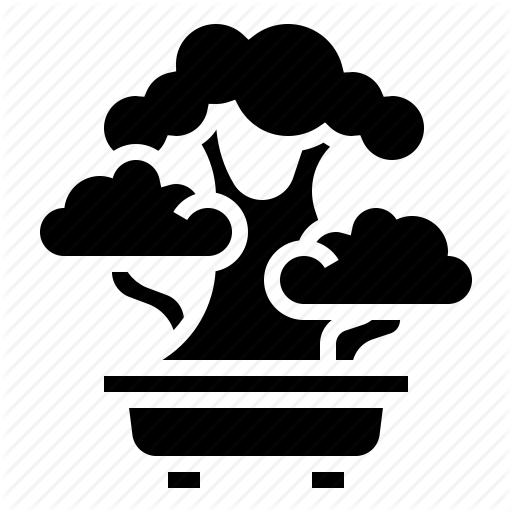
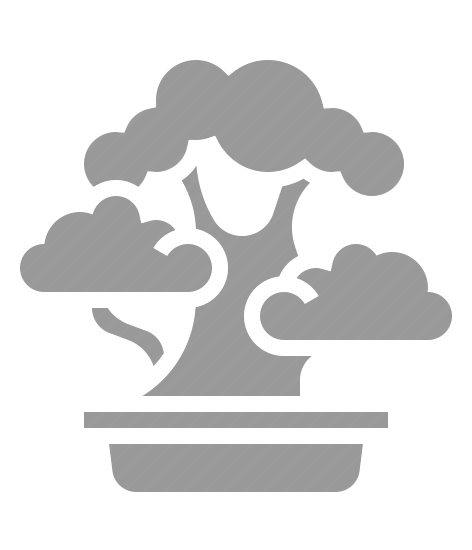
t5

diff --git a/index.html b/index.html
@@ -6,7 +6,7 @@
 -->
 <html>
 	<head>
-		<title>TXT by HTML5 UP</title>
+		<title>Amazonia Bonsai</title>
 		<meta charset="utf-8" />
 		<meta name="viewport" content="width=device-width, initial-scale=1, user-scalable=no" />
 		<link rel="stylesheet" href="assets/css/main.css" />
@@ -16,10 +16,12 @@
 
 			<!-- Header -->
 				<header id="header">
+					<div>
+					<a href="index.html" id="logo"><img src="images/icon-bonsai.png" alt="logo" width=45 height=45></a>
+					</div>
 					<div class="logo container">
 						<div>
-							<h1><a href="index.html" id="logo"></a></h1>
-							<p>A responsive site template by HTML5 UP</p>
+							<p>Plantando idéias para um mundo melhor</p>
 						</div>
 					</div>
 				</header>
@@ -27,36 +29,27 @@
 			<!-- Nav -->
 				<nav id="nav">
 					<ul>
-						<li class="current"><a href="index.html">Home</a></li>
+						<li class="current"><a href="index.html">INICIO</a></li>
 						<li>
-							<a href="#">Dropdown</a>
+							<a href="#sementes">SEMENTES</a>
 							<ul>
-								<li><a href="#">Lorem ipsum dolor</a></li>
-								<li><a href="#">Magna phasellus</a></li>
-								<li>
-									<a href="#">Phasellus consequat</a>
-									<ul>
-										<li><a href="#">Lorem ipsum dolor</a></li>
-										<li><a href="#">Phasellus consequat</a></li>
-										<li><a href="#">Magna phasellus</a></li>
-										<li><a href="#">Etiam dolore nisl</a></li>
-									</ul>
-								</li>
-								<li><a href="#">Veroeros feugiat</a></li>
+								<li><a href="#sementes">Bonsai de Laranja</a></li>
+								<li><a href="#sementes">Bonsai de Maça</a></li>
+								<li><a href="#sementes">Bonsai de Kiwi</a></li>
+								<li><a href="#sementes">Bonsai de Cereja</a></li>
 							</ul>
 						</li>
-						<li><a href="left-sidebar.html">Left Sidebar</a></li>
-						<li><a href="right-sidebar.html">Right Sidebar</a></li>
-						<li><a href="no-sidebar.html">No Sidebar</a></li>
+						<li><a href="#main">Nosso projeto</a></li>
+						<li><a href="#footer">Fale Conosco</a></li>
 					</ul>
 				</nav>
 
 			<!-- Banner -->
 				<section id="banner">
 					<div class="content">
-						<h2>Welcome to TXT by HTML5 UP</h2>
-						<p>A free responsive site template built on HTML5, CSS3, and some other stuff</p>
-						<a href="#main" class="button scrolly">Alright let's go</a>
+						<h2>Amazonia Bonsai</h2>
+						<p>Pequenos gestos fazem a diferença, cultive o que á de melhor dentro de você.</p>
+						<a href="#main" class="button scrolly">CONHEÇA NOSSAS SEMENTES</a>
 					</div>
 				</section>
 
@@ -68,19 +61,16 @@
 
 								<!-- Highlight -->
 									<section class="box highlight">
-										<ul class="special">
-											<li><a href="#" class="icon solid fa-search"><span class="label">Magnifier</span></a></li>
-											<li><a href="#" class="icon solid fa-tablet-alt"><span class="label">Tablet</span></a></li>
-											<li><a href="#" class="icon solid fa-flask"><span class="label">Flask</span></a></li>
-											<li><a href="#" class="icon solid fa-cog"><span class="label">Cog?</span></a></li>
-										</ul>
 										<header>
-											<h2>A random assortment of icons in circles</h2>
-											<p>And some text that attempts to explain their significance</p>
+											<h2>Nosso Projeto</h2>
+											<p>O objetivo da Amazônia Bonsai é disseminar a cultura do plantio, e cultivo da natureza.</p>
 										</header>
 										<p>
-											Phasellus quam turpis, feugiat sit amet ornare in, hendrerit in lectus. Praesent semper mod quis eget mi. Etiam eu<br />
-											ante risus. Aliquam erat volutpat. Aliquam luctus et mattis lectus amet pulvinar. Nam nec turpis consequat.
+											A maior biodiversidade vegetal do planeta, é a Amazônia.
+											O desmatamento da Amazônia voltou a subir. Entre agosto de 2017 e julho de 2018, perdemos 7.900 km2, ou cerca de 1,18 bilhão de árvores. A floresta amazônica é a maior floresta tropical do mundo e perder sua vegetação significa perder sua rica biodiversidade. Também significa aumentar a emissão de gases de efeito estufa, que causam as mudanças climáticas. O governo está falhando em proteger nossa floresta.
+											Nós da AmazoniaBonsai.org acreditamos que todo cidadão deve fazer sua parte, mesmo que interna, cabe a ele mudar os seus conceitos sobre a natureza, entender que há vida lá, e ser um membro ativo do plantio e cultivo, espalhando essa cultura, para um planeta que será lar dos nossos filhos e familiares.
+											No brasil, é comum o cultivo de árvores frutíferas mesmo dentro de um apartamento, como por exemplo jabuticabas, mas até hoje, poucas sementes se adequaram a esse cenário limitado.
+											Com as sementes importadas de bonsai frutíferas, aumentamos exponencialmente a diversidade de sementes cultivadas em qualquer cenário com os mínimos necessários para sua fotossíntese.
 										</p>
 									</section>
 
@@ -88,8 +78,8 @@
 							<div class="col-12">
 
 								<!-- Features -->
-									<section class="box features">
-										<h2 class="major"><span>A Major Heading</span></h2>
+									<section id="sementes" class="box features">
+										<h2 class="major"><span>Sementes</span></h2>
 										<div>
 											<div class="row">
 												<div class="col-3 col-6-medium col-12-small">
@@ -97,10 +87,10 @@
 													<!-- Feature -->
 														<section class="box feature">
 															<a href="#" class="image featured"><img src="images/pic01.jpg" alt="" /></a>
-															<h3><a href="#">A Subheading</a></h3>
+															<h3><a href="#">Bonsai Laranja</a></h3>
 															<p>
-																Phasellus quam turpis, feugiat sit amet ornare in, a hendrerit in
-																lectus dolore. Praesent semper mod quis eget sed etiam eu ante risus.
+																Fruta cítrica com sabor variando do doce para o levemente azedo. É um fruto rico em sais minerais como, por exemplo, fósforo, cálcio e ferro.
+																Vitaminas C, A, e B.
 															</p>
 														</section>
 
@@ -110,10 +100,10 @@
 													<!-- Feature -->
 														<section class="box feature">
 															<a href="#" class="image featured"><img src="images/pic02.jpg" alt="" /></a>
-															<h3><a href="#">Another Subheading</a></h3>
+															<h3><a href="#">Bonsai Maça</a></h3>
 															<p>
-																Phasellus quam turpis, feugiat sit amet ornare in, a hendrerit in
-																lectus dolore. Praesent semper mod quis eget sed etiam eu ante risus.
+																Na sua casca encontramos a pectina que ajuda a reduzir o colesterol do sangue.
+																Além disso, é um fruto rico em vitaminas B1, B2, niacina, ferro e fósforo.
 															</p>
 														</section>
 
@@ -123,10 +113,10 @@
 													<!-- Feature -->
 														<section class="box feature">
 															<a href="#" class="image featured"><img src="images/pic03.jpg" alt="" /></a>
-															<h3><a href="#">And Another</a></h3>
+															<h3><a href="#">Bonsai Kiwi</a></h3>
 															<p>
-																Phasellus quam turpis, feugiat sit amet ornare in, a hendrerit in
-																lectus dolore. Praesent semper mod quis eget sed etiam eu ante risus.
+																Rico em potássio, cálcio e fósforo, e vitamina C.
+																O kiwi também possui pectina. Fibra muito importante para controlar os níveis de colesterol no sangue.
 															</p>
 														</section>
 
@@ -136,26 +126,21 @@
 													<!-- Feature -->
 														<section class="box feature">
 															<a href="#" class="image featured"><img src="images/pic04.jpg" alt="" /></a>
-															<h3><a href="#">And One More</a></h3>
+															<h3><a href="#">Bonsai Cereja</a></h3>
 															<p>
-																Phasellus quam turpis, feugiat sit amet ornare in, a hendrerit in
-																lectus dolore. Praesent semper mod quis eget sed etiam eu ante risus.
+																Rica em vitamina A, B e C, além de conter cálcio, ferro, fósforo e proteínas, a cerejeira é muito apreciado por combater os radicais livres e ajudar na digestão.
 															</p>
 														</section>
 
 												</div>
 												<div class="col-12">
 													<ul class="actions">
-														<li><a href="#" class="button large">Do Something</a></li>
-														<li><a href="#" class="button alt large">Think About It</a></li>
+														<li><a href="#" class="button large">Resgate gratuitamente</a></li>
 													</ul>
 												</div>
 											</div>
 										</div>
 									</section>
-
-							</div>
-							<div class="col-12">
 
 							</div>
 						</div>
@@ -170,13 +155,9 @@
 
 								<!-- About -->
 									<section>
-										<h2 class="major"><span>What's this about?</span></h2>
+										<h2 class="major"><span>Ficou com alguma dúvida?</span></h2>
 										<p>
-											This is <strong>TXT</strong>, yet another free responsive site template designed by
-											<a href="http://twitter.com/ajlkn">AJ</a> for <a href="http://html5up.net">HTML5 UP</a>. It's released under the
-											<a href="http://html5up.net/license/">Creative Commons Attribution</a> license so feel free to use it for
-											whatever you're working on (personal or commercial), just be sure to give us credit for the design.
-											That's basically it :)
+											Se você ainda tem alguma dúvida, acesse nosso <strong><a href="#">FAQ</a></strong>, ou mande um email para o nosso atendimento ao cliente <a href="#">contato@amazoniabonsai.org</a>
 										</p>
 									</section>
 
@@ -185,13 +166,10 @@
 
 								<!-- Contact -->
 									<section>
-										<h2 class="major"><span>Get in touch</span></h2>
+										<h2 class="major"><span>Nossas raizes</span></h2>
 										<ul class="contact">
 											<li><a class="icon brands fa-facebook-f" href="#"><span class="label">Facebook</span></a></li>
-											<li><a class="icon brands fa-twitter" href="#"><span class="label">Twitter</span></a></li>
 											<li><a class="icon brands fa-instagram" href="#"><span class="label">Instagram</span></a></li>
-											<li><a class="icon brands fa-dribbble" href="#"><span class="label">Dribbble</span></a></li>
-											<li><a class="icon brands fa-linkedin-in" href="#"><span class="label">LinkedIn</span></a></li>
 										</ul>
 									</section>
 
@@ -201,7 +179,7 @@
 						<!-- Copyright -->
 							<div id="copyright">
 								<ul class="menu">
-									<li>&copy; Untitled. All rights reserved</li><li>Design: <a href="http://html5up.net">HTML5 UP</a></li>
+										<li>&copy; Todos os direitos reservados</li><li>Desenvolvido: <a href="http://amazoniabonsai.org">AmazoniaBonsai.org</a></li>
 								</ul>
 							</div>
 

diff --git a/assets/css/main.css b/assets/css/main.css
@@ -2194,17 +2194,19 @@ input, select, textarea {
 /* Box */
 
 	.box.highlight {
-		text-align: center;
+		text-align: justify;
 	}
 
 		.box.highlight h2 {
 			font-size: 3em;
 			margin: 0 0 0.25em 0;
+			text-align: center;
 		}
 
 		.box.highlight header > p {
 			font-size: 1.65em;
 			margin: 0 0 1.5em 0;
+			text-align: center;
 		}
 
 	.box.feature {
@@ -2308,7 +2310,7 @@ input, select, textarea {
 		font-family: 'Open Sans Condensed', sans-serif;
 		font-weight: 700;
 		text-transform: uppercase;
-		padding: 2em 0;
+		padding: 1em 0 2em 0;
 		background: #fff;
 		margin: 0 auto;
 	}
@@ -2475,16 +2477,6 @@ input, select, textarea {
 			}
 
 /* Logo */
-#logo {
-	position: relative;
-	background-image: url("../../images/icon-bonsai.png");
-	background-position: top left, top left, center center;
-	background-repeat: repeat, repeat, no-repeat;
-	background-size: auto, auto, cover;
-	z-index: 1;
-	padding: 11em 0;
-}
-
 
 /* Banner */
 
@@ -2574,7 +2566,7 @@ input, select, textarea {
 
 	#footer {
 		text-align: center;
-		padding: 8em 0 8em 0;
+		padding: 4em 0 4em 0;
 	}
 
 		#footer a {
@@ -2597,7 +2589,7 @@ input, select, textarea {
 		padding: 0.75em 2em 0.75em 2em;
 		border-radius: 8px;
 		color: #8b9790;
-		margin: 4em 0 0 0;
+		margin: 2.5em 0 0 0;
 	}
 
 		#copyright a {
